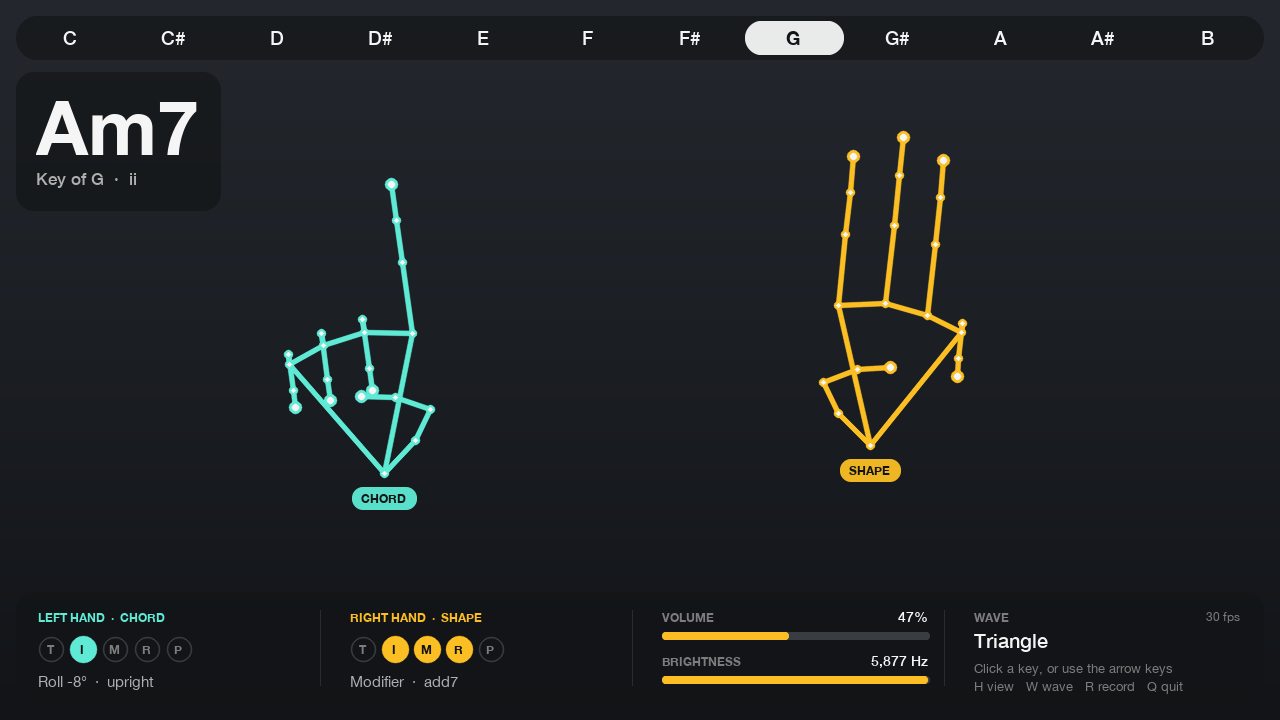
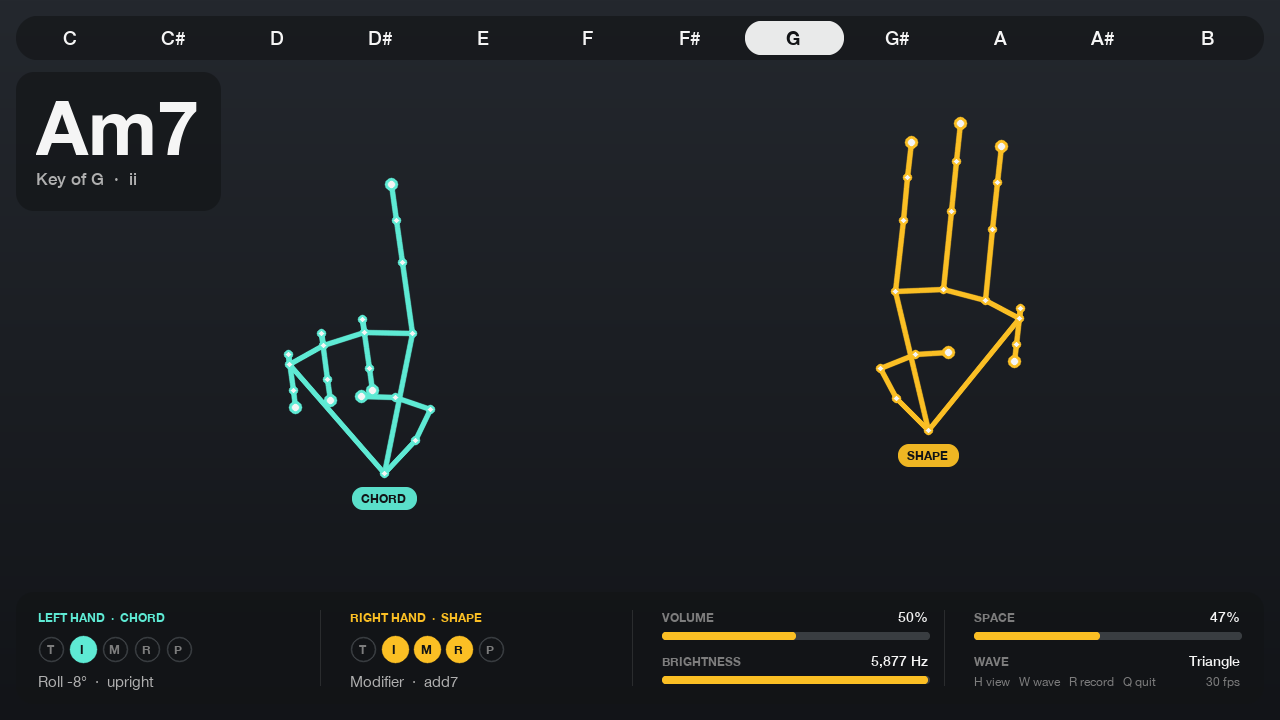
README: PRD deviations table, reproducible screenshot script; window title

Changed region(s): [[0.625, 0.1833, 0.8125, 0.6722], [0.75, 0.8556, 0.9688, 0.9778]]

diff --git a/scripts/render_screenshot.py b/scripts/render_screenshot.py
@@ -1,0 +1,35 @@
+"""Regenerate docs/screenshot.png: the full overlay drawn over synthetic hands (no camera needed)."""
+import sys
+from pathlib import Path
+
+import cv2
+import numpy as np
+
+root = Path(__file__).resolve().parent.parent
+sys.path[:0] = [str(root), str(root / "tests")]
+from hand_synth import config as cfg, standins  # noqa: E402
+from hand_synth.main import Instrument  # noqa: E402
+from hand_synth.tracking import Hand, HandsFrame  # noqa: E402
+from hand_synth.ui import KeyBar, OverlayState, draw_overlay  # noqa: E402
+from synthetic_hand import make_hand  # noqa: E402
+
+left = Hand("Left", make_hand((False, True, False, False, False), "Left", roll_deg=-8, scale=1.1, center=(0.52, 0.56)), 0.97)
+right = Hand("Right", make_hand((False, True, True, True, False), "Right", roll_deg=6, scale=1.1, center=(1.30, 0.50)), 0.97)
+hands = HandsFrame(left, right)
+inst = Instrument(standins.fingers_up, standins, key="G")
+for _ in range(12):
+    inst.update(hands)
+
+y = np.linspace(0, 1, 720)[:, None, None]
+frame = ((np.array([46, 40, 36]) * (1 - y) + np.array([24, 20, 18]) * y) * np.ones((1, 1280, 1))).astype(np.uint8)
+s = inst.state
+view = OverlayState(
+    key=s["key"], chord=inst.chord_name(), degree=s["degree"], flipped=s["flipped"], mod=s["mod"],
+    chord_fingers=inst.chord_fingers, expr_fingers=inst.expr_fingers, roll=inst.roll, zone=inst.hold_roll.value,
+    gain=inst.ema_gain.value, brightness=inst.ema_bright.value, cutoff_hz=inst.cutoff_hz, waveform=inst.waveform,
+    space=inst.ema_space.value, chord_hand=cfg.CHORD_HAND, expr_hand=cfg.EXPR_HAND, fps=30)
+draw_overlay(frame, hands, view, cfg.KEYBAR_HEIGHT, cfg.HUD_HEIGHT, "full")
+KeyBar(cfg.KEY_NAMES, lambda k: None, cfg.KEYBAR_HEIGHT).draw(frame, s["key"])
+out = root / "docs" / "screenshot.png"
+cv2.imwrite(str(out), frame, [cv2.IMWRITE_PNG_COMPRESSION, 9])
+print(f"{inst.chord_name()} -> {out.relative_to(root)}")

diff --git a/hand_synth/config.py b/hand_synth/config.py
@@ -83,7 +83,7 @@ MODEL_URL = ("https://storage.googleapis.com/mediapipe-models/hand_landmarker/"
 FIXTURE_DIR = "fixtures/landmarks"             # where 'r' dumps landmark JSON
 
 # ── UI ───────────────────────────────────────────────────────────────────────
-WINDOW_NAME = "hand synth"
+WINDOW_NAME = "Hand Synth"
 KEYBAR_HEIGHT = 44              # px, 12 key buttons across the top of the frame
 UI_MODE = "full"                # "full" | "minimal" | "clean"   (cycle live with 'h')
 UI_MODES = ["full", "minimal", "clean"]

diff --git a/README.md b/README.md
@@ -6,7 +6,7 @@ to sing over. The full spec is in [`HAND_SYNTH_PRD.md`](./HAND_SYNTH_PRD.md).
 
 ![Hand Synth overlay: left hand plays ii in G, right hand adds the 7th → Am7](docs/screenshot.png)
 
-<sub>Overlay rendered with synthetic hands (left: index → ii; right: three fingers → add7).</sub>
+<sub>Overlay rendered with synthetic hands (left: index → ii; right: three fingers → add7). Regenerate with `python scripts/render_screenshot.py`.</sub>
 
 ## Quick start (macOS, Apple Silicon)
 
@@ -174,6 +174,22 @@ The suite covers:
 - [ ] A left fist gives silence, with a fade.
 - [ ] Click **D**: an open hand now plays D major.
 - [ ] Hold a chord and sing over it for 30 seconds without hearing a click.
+
+## Differences from the PRD
+
+Every deviation is deliberate. Each one is listed here so the spec and the code don't silently drift apart.
+
+| PRD | Built | Why |
+|---|---|---|
+| Demo gate (D2 step 0) before scaffolding | Skipped at the owner's request | The environment was proven directly instead: venv, model download, camera, audio. |
+| `fingers.py` / `features.py` hand-written first | Stubs, plus temporary stand-ins in `standins.py` | A working demo before the manual gate. The stand-ins hand over automatically per function. |
+| Landmarks in raw normalized coordinates | x and z scaled by width/height | Real angles: 45° of roll reads as 45°, not ~29°. |
+| MediaPipe, any version | Pinned to `0.10.21` | 1.0.x crashes on macOS. |
+| Divide the mix by voice count | Normalized by max(smoothed held count, summed envelopes) | Avoids level jumps and keeps full attack and release shapes. |
+| v1 sound: oscillators, LPF, gain | Adds unison detune, reverb, voice leading and a bass note | PRD C10's "revisit" items, for a fuller accompaniment pad. |
+| Expression-hand wrist-x unused | Drives reverb mix ("space") | PRD C10's first candidate control. |
+| `demo_keys`: 7/9/6 toggle mods | J/K/L toggle add7/add9/add6 | 7 and 6 already select chord degrees. |
+| — | `h` view modes, empty-state hint, startup config validation | UX and robustness. |
 
 ## Troubleshooting
 
